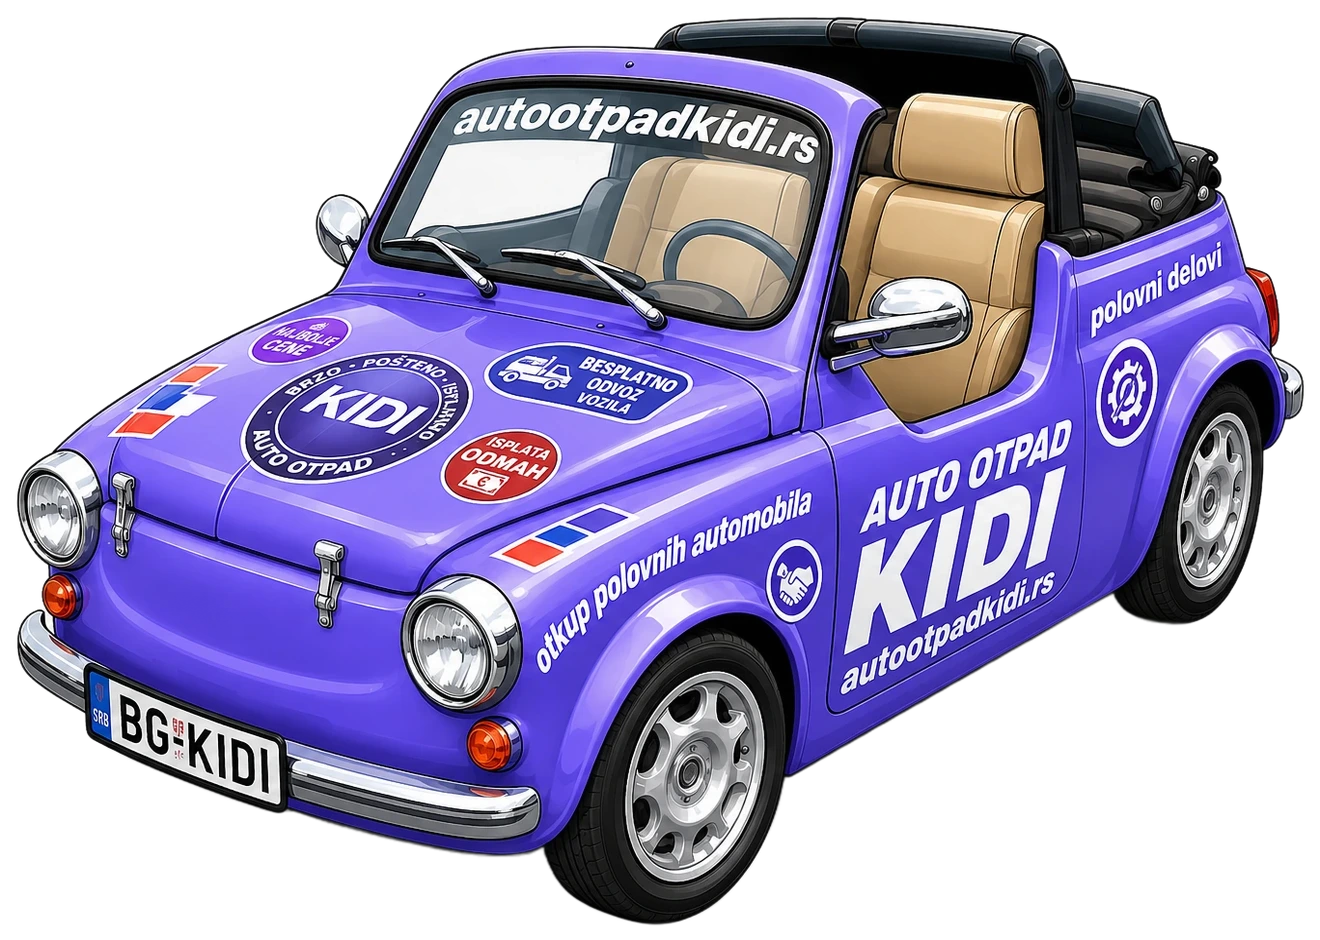
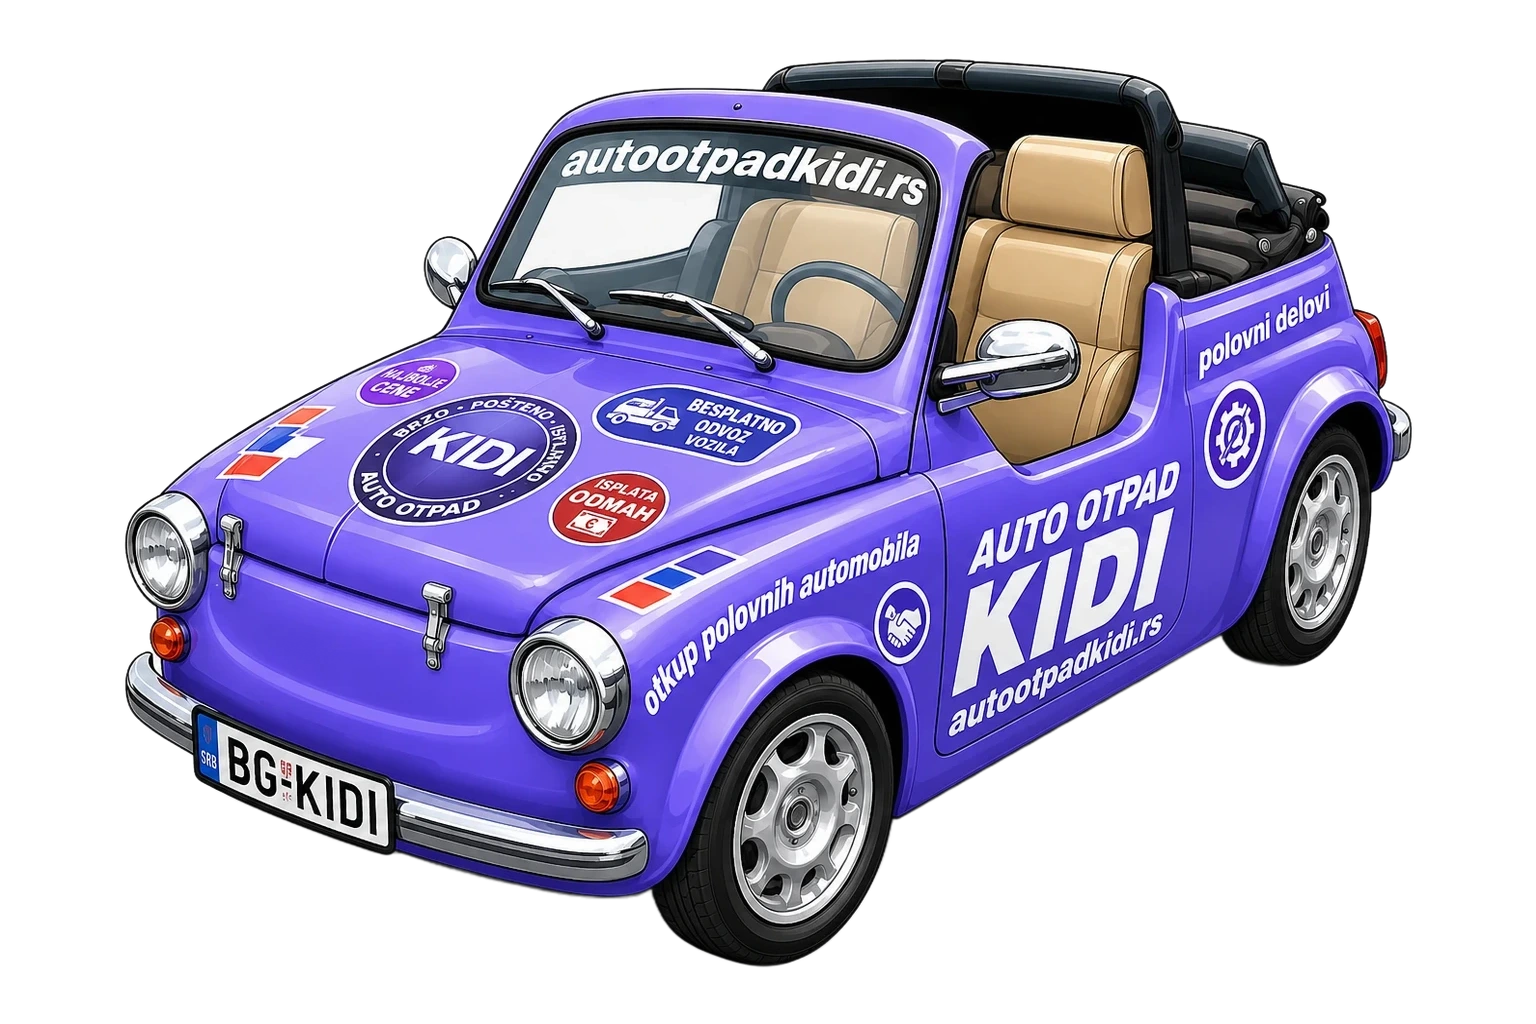
Hero img: proširi canvas na 1536x1024 — isti scale kao stara PNG

diff --git a/index.html b/index.html
@@ -528,7 +528,7 @@
   <div class="hero">
     <div class="hero-glow"></div>
     <div class="hero-frame">
-    <img src="img/kidi-fica-transparent.webp" alt="Ljubičasti Fiat 500 kabriolet u bojama Auto otpada Kidi, sa tablicom BG-KIDI" width="1320" height="940" loading="eager">
+    <img src="img/kidi-fica-transparent.webp" alt="Ljubičasti Fiat 500 kabriolet u bojama Auto otpada Kidi, sa tablicom BG-KIDI" width="1536" height="1024" loading="eager">
       <span class="beam hl-a" aria-hidden="true"></span>
       <span class="beam hl-b" aria-hidden="true"></span>
       <span class="headlight hl-a" aria-hidden="true"></span>
